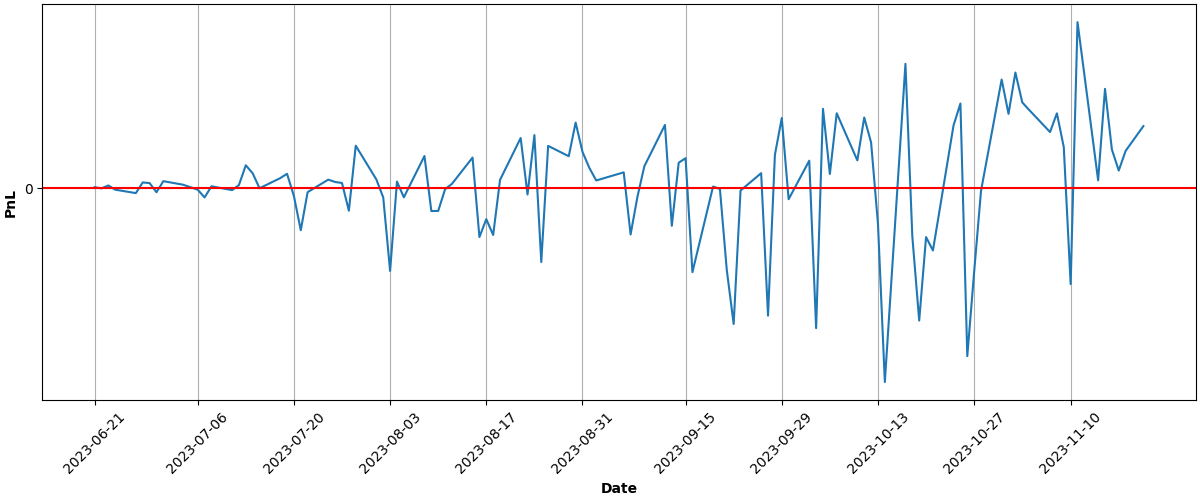
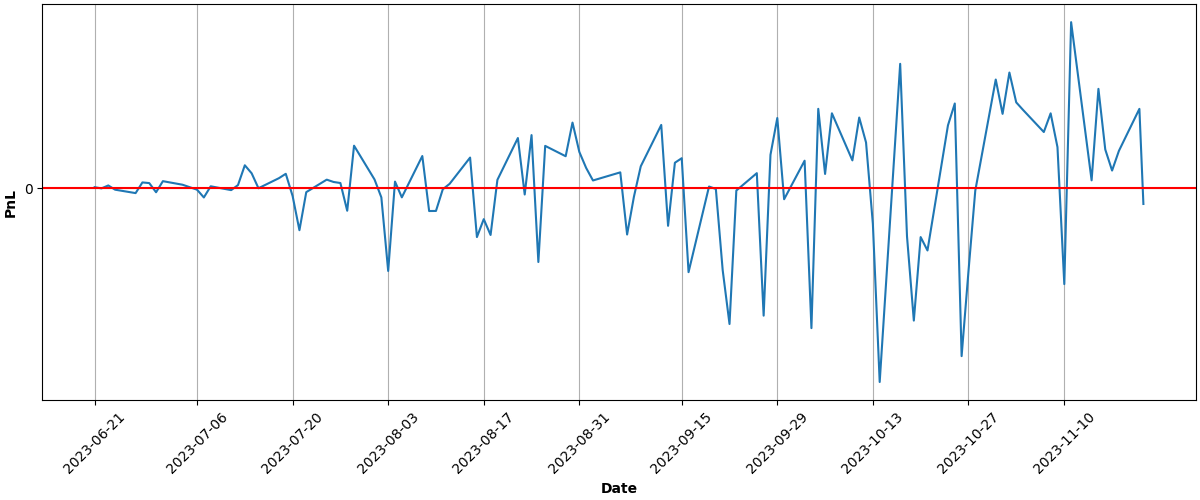
Automated Buy At Tue Nov 21 15:04:21 UTC 2023 Run ID 6945670195

diff --git a/README.md b/README.md
@@ -68,9 +68,9 @@ Results
 
 | Asset | Average Price | Current Price | ROI | 📈 |
 | --- | --- | --- | --- | --- |
-| FNGU | $172.208727711 | $203.32 | 18.07% | &#128994;&#128515; |
-| SVIX | $28.191654545 | $32.7116 | 16.03% | &#128994;&#128515; |
-| **Total** |  |  | **16.99%** | &#128994;&#128518; |
+| FNGU | $172.449939883 | $203.7506 | 18.15% | &#128994;&#128515; |
+| SVIX | $28.291173333 | $32.67 | 15.48% | &#128994;&#128515; |
+| **Total** |  |  | **16.72%** | &#128994;&#128518; |
 
 ### PnL over time (calculations may not be accurate):
 
@@ -81,6 +81,6 @@ Results
 ---
 
 
-Updated at 2023-11-20 15:05:14
+Updated at 2023-11-21 15:04:37
 
 
